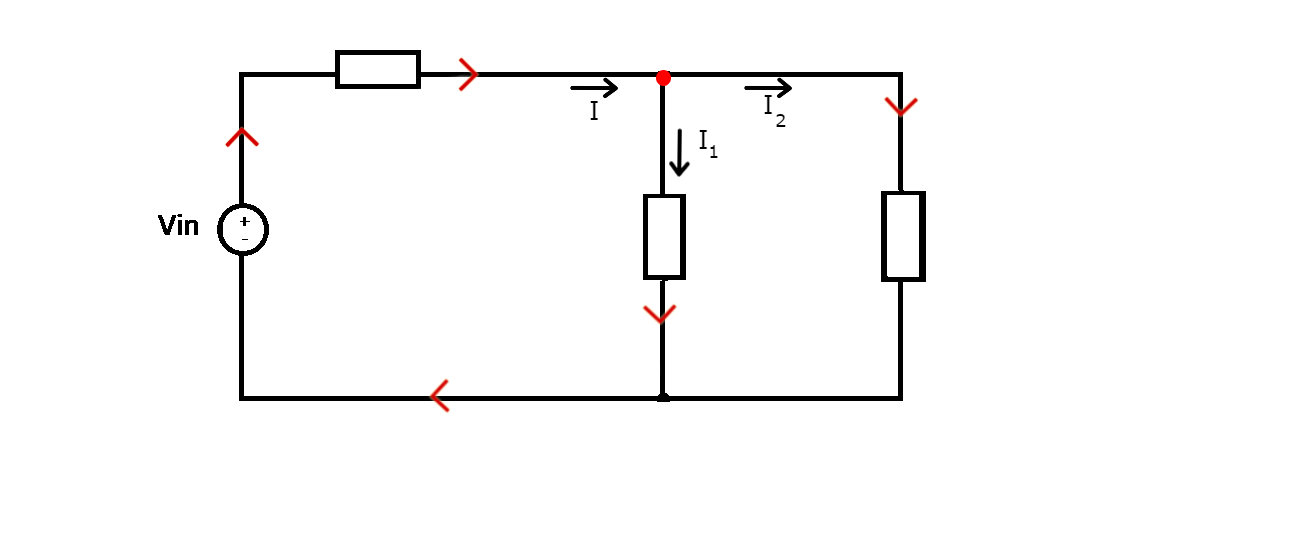
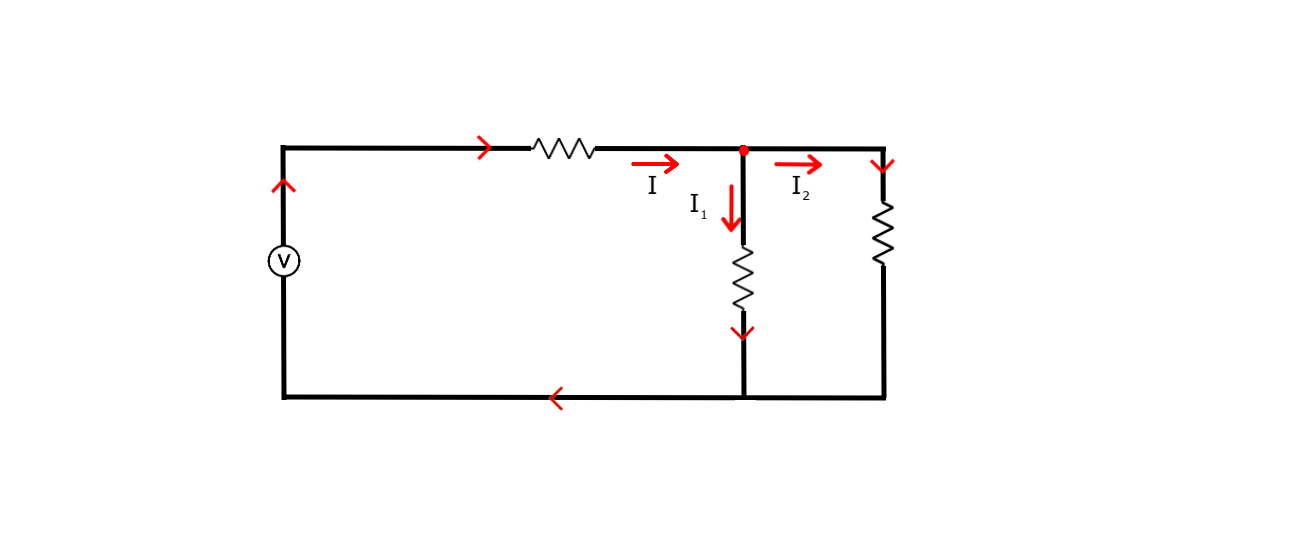
commit

Changed region(s): [[0.1226, 0.0921, 0.7356, 0.7365]]

diff --git a/exp1/Simulator.html b/exp1/Simulator.html
@@ -96,7 +96,7 @@
     </div>
     <div>
 
-        <img src="theoryimage/circuit.png" style="position:absolute; height:50%;">
+        <img src="theoryimage/circuit.png" style="position:absolute; margin-left: -60px; margin-top: -99px;">
 
     </div>
 
@@ -111,23 +111,23 @@
     </div>
 
 
-    <div style="margin-left: 220px; margin-top: 150px; position: absolute;">
-        <input type="number" value="30" id="vin" oninput="mf4()" style="width:60px;" min=1 max=300> <br>Volt
+    <div style="margin-left: 295px; margin-top: 150px; position: absolute;">
+        <input type="number" value="30" id="vin" oninput="mf4()" style="width:60px;" min=1 max=300> <br><b>Volt</b>
     </div>
 
-    <div style="margin-left: 26vw; margin-top: 60px; position: absolute;">
-        R<sub>1</sub><input type="number" oninput="mf1()" id="R1" value=8 style=" width: 60px; opacity:1;" min="1 "
+    <div style="margin-left: 34.5vw; margin-top: 5px; position: absolute;">
+        <b>R</b><sub>1</sub><input type="number" oninput="mf1()" id="R1" value=8 style=" width: 60px; opacity:1;" min="1 "
             max="10000"> ohm
     </div>
 
-    <div style="margin-left: 32vw; margin-top: 125px; position: absolute;">
-        R<sub>2</sub> <br><input type="number" id="R2" oninput="mf2()" value=3 style="width:60px;" min="1 "
+    <div style="margin-left: 43vw; margin-top: 140px; position: absolute;">
+        <b>R</b><sub>2</sub> <br><input type="number" id="R2" oninput="mf2()" value=3 style="width:60px;" min="1 "
             max="10000"><br>ohm
     </div>
 
-    <div style="margin-left: 48vw; margin-top: 120px; position: absolute;">
-        R<sub>3</sub> <input type="number" id="R3" oninput="mf3()" value=6 style=" width: 60px; opacity:1;" min="1 "
-            max="10000">ohm
+    <div style="margin-left: 56vw; margin-top: 90px; position: absolute;">
+       <b>R</b> <sub>3</sub><br> <input type="number" id="R3" oninput="mf3()" value=6 style=" width: 60px; opacity:1;" min="1 "
+            max="10000"><br>ohm
     </div>
 
     <div style="margin-left: 62vw; margin-top: 50px; position: absolute; background-color: bisque;">
